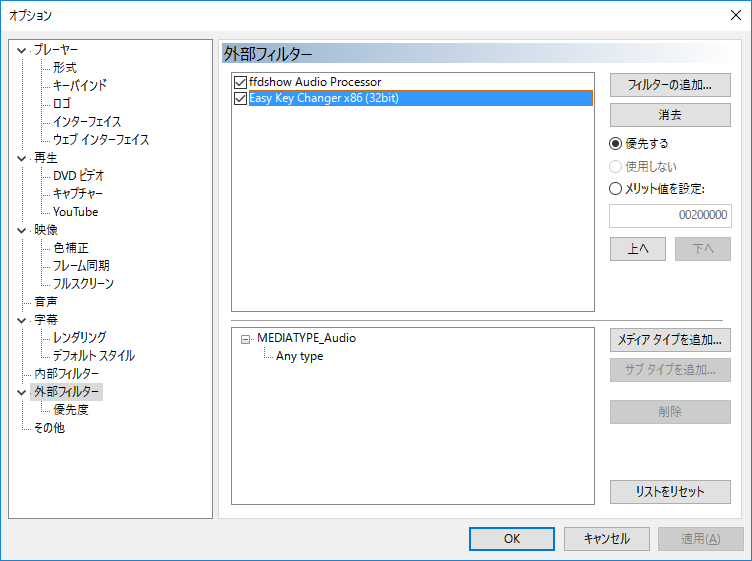
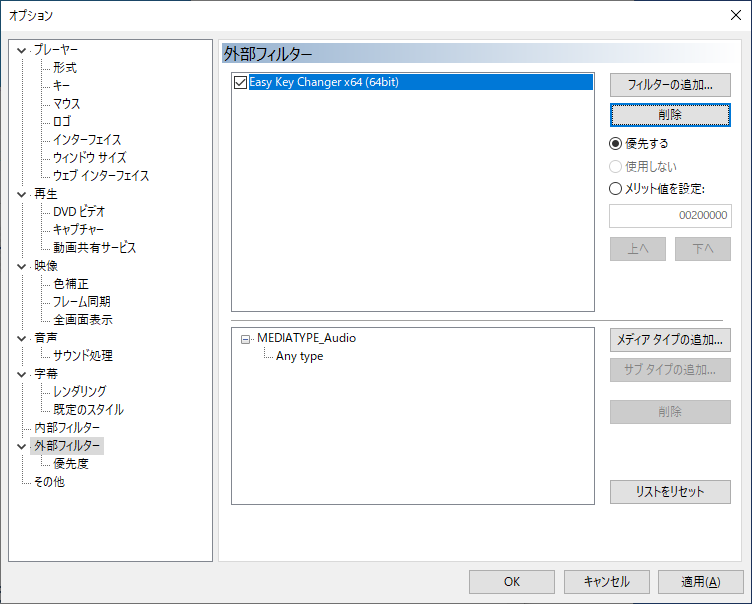
Ver 1.14B ヘルプを更新。

diff --git a/Documents/EasyKeyChanger_JPN.html b/Documents/EasyKeyChanger_JPN.html
@@ -55,24 +55,33 @@
   MPC-BE サイトの説明に従って、MPC-BE をインストールします。デフォルトの設定で問題ないと思います。<br>
 </p>
 
-<h2 id="FfdshowInstall">ffdshow のインストール</h2>
+<h2 id="AppInstall">簡易キーチェンジャーのインストール</h2>
+
+<p>
+  簡易キーチェンジャーは、ダウンロードした zip ファイルを好きな場所に解凍するだけで大丈夫です。<br>
+</p>
+
+<h2 id="LavfilternoInstall">LAV フィルターのインストール</h2>
 
 <p>
   簡易キーチェンジャーは、AAC などのエンコードされた音声を直接扱うことができません。予め、別の DirectShow フィルターで音声処理する必要があります。<br>
   <br>
-  音声処理として、本ヘルプでは ffdshow を利用します。<br>
+  音声処理として、本ヘルプでは LAV フィルターと ffdshow を利用します。<br>
   <br>
+  <a href="https://github.com/Nevcairiel/LAVFilters/releases" target="_blank">LAV フィルターのサイト</a>から LAV フィルターをダウンロードします。使用している MPC-BE が 32 ビット版の場合は「x86」の zip ファイル、MPC-BE が 64 ビット版の場合は「x64」の zip ファイルをダウンロードします。Windows のビット数ではなく、MPC-BE のビット数に合わせて下さい。<br>
+  <br>
+  <a href="HelpParts/EasyKeyChanger_LavFilterInstall.png" target="_blank"><img src="HelpParts/EasyKeyChanger_LavFilterInstall.png" alt="" width="256" align="right" border="0" hspace="10" vspace="10"></a>
+  ダウンロードした zip ファイルを任意のフォルダーに解凍し、中にある「install_audio.bat」を右クリックして管理者として実行します。「LAVAudio.ax の DllRegisterServer は成功しました。」と表示されればインストール成功です。<br clear="right">
+</p>
+
+<h2 id="FfdshowInstall">ffdshow のインストール</h2>
+
+<p>
   ffdshow は <a href="http://ffdshow-tryout.sourceforge.net/" target="_blank">ffdshow tryouts</a> に含まれています。<br>
   <br>
   ffdshow tryouts の<a href="http://ffdshow-tryout.sourceforge.net/download.php" target="_blank">ダウンロードページ</a>から、ffdshow をダウンロードします。MPC-BE が 64 ビット版なら ffdshow も 64 ビット版、MPC-BE が 32 ビット版なら ffdshow も 32 ビット版をダウンロードして下さい。Windows のビット数ではなく、MPC-BE のビット数に合わせて下さい。<br>
   <br>
   ffdshow tryouts サイトの説明に従って、ffdshow をインストールします。デフォルトの設定で問題ないと思います。<br>
-</p>
-
-<h2 id="AppInstall">簡易キーチェンジャーのインストール</h2>
-
-<p>
-  簡易キーチェンジャーは、ダウンロードした zip ファイルを好きな場所に解凍するだけで大丈夫です。<br>
 </p>
 
 <h2 id="MpcBeSettings">MPC-BE の設定</h2>
@@ -87,32 +96,79 @@
   <br>
   <a href="HelpParts/EasyKeyChanger_MpcBeGaibuFilter.png" target="_blank"><img src="HelpParts/EasyKeyChanger_MpcBeGaibuFilter.png" alt="" width="256" align="right" border="0" hspace="10" vspace="10"></a>
   オプションウィンドウ左側の「外部フィルター」をクリックすると、右の画面になります。<br clear="right">
-  <br>
+</p>
+
+<h3 id="AppTsuika">簡易キーチェンジャーの追加</h3>
+
+<p>
   <a href="HelpParts/EasyKeyChanger_MpcBeFilterSentaku.png" target="_blank"><img src="HelpParts/EasyKeyChanger_MpcBeFilterSentaku.png" alt="" width="256" align="right" border="0" hspace="10" vspace="10"></a>
-  「フィルターの追加」ボタンをクリックすると、右の画面のように、利用可能なフィルターの一覧が出てきますので、「ffdshow Audio Processor」を選択して OK します（名前が似ている ffdshow Audio Decoder ではありませんので注意して下さい）。<br clear="right">
-  <br>
-  <a href="HelpParts/EasyKeyChanger_MpcBeFfdshowYusen.png" target="_blank"><img src="HelpParts/EasyKeyChanger_MpcBeFfdshowYusen.png" alt="" width="256" align="right" border="0" hspace="10" vspace="10"></a>
-  すると、外部フィルターに「ffdshow Audio Processor」が表示されるので、それを選択した状態で右の「優先する」のチェックを入れておきます。<br clear="right">
-  <br>
-  <a href="HelpParts/EasyKeyChanger_MpcBeFfdshowSettings.png" target="_blank"><img src="HelpParts/EasyKeyChanger_MpcBeFfdshowSettings.png" alt="" width="256" align="right" border="0" hspace="10" vspace="10"></a>
-  また、「ffdshow Audio Processor」をダブルクリックすると、ffdshow Audio Processor の設定画面が開きますので、左側のリストから「Output」を選択します。<br>
-  <br>
-  「Output format for uncompressed or decoded streams」の欄が、「16-bit integer」のみチェックされている状態になっているか確認してください（恐らくデフォルトではそうなっているはずです）。もし、「16-bit integer」以外にチェックが入っていたら外して下さい。<br>
-  <br>
-  確認したら、OK ボタンをクリックして ffdshow Audio Processor の設定画面を閉じます。<br clear="right">
+  「フィルターの追加」ボタンをクリックすると、右の画面のように、利用可能なフィルターの一覧が出てきます。<br clear="right">
   <br>
   <a href="HelpParts/EasyKeyChanger_MpcBeFilterHiraku.png" target="_blank"><img src="HelpParts/EasyKeyChanger_MpcBeFilterHiraku.png" alt="" width="256" align="right" border="0" hspace="10" vspace="10"></a>
-  次に、MPC-BE オプションウィンドウの「外部フィルター」で、もう 1 度「フィルターの追加」ボタンをクリックします。利用可能なフィルターの一覧が出てきますが、今度は「参照」ボタンをクリックします。<br>
+  「参照」ボタンをクリックします。<br>
   <br>
   開くウィンドウで、簡易キーチェンジャーを解凍したフォルダのサブフォルダにある EasyKeyChanger.dll を選択します。使用している MPC-BE が 32 ビット版の場合は「32bit」サブフォルダにある EasyKeyChanger.dll、MPC-BE が 64 ビット版の場合は「64bit」サブフォルダにある EasyKeyChanger.dll を選択します。Windows のビット数ではなく、MPC-BE のビット数に合わせて下さい。<br>
   <br>
   EasyKeyChanger.dll を選択後、開くボタンをクリックします。<br clear="right">
   <br>
   <a href="HelpParts/EasyKeyChanger_MpcBeEasyKeyChangerYusen.png" target="_blank"><img src="HelpParts/EasyKeyChanger_MpcBeEasyKeyChangerYusen.png" alt="" width="256" align="right" border="0" hspace="10" vspace="10"></a>
-  すると、外部フィルターに「Easy Key Changer x86 (32bit)」（または「Easy Key Changer x64 (64bit)」）が表示されるので、それを選択した状態で右の「優先する」のチェックを入れておきます。<br>
+  すると、外部フィルターに「Easy Key Changer x86 (32bit)」（または「Easy Key Changer x64 (64bit)」）が表示されるので、それを選択した状態で右の「優先する」のチェックを入れておきます。<br clear="right">
+</p>
+
+<h3 id="MpcBeniLavfilterwoTsuika">LAV フィルターの追加</h3>
+
+<p>
+  <a href="HelpParts/EasyKeyChanger_MpcBeLav.png" target="_blank"><img src="HelpParts/EasyKeyChanger_MpcBeLav.png" alt="" width="256" align="right" border="0" hspace="10" vspace="10"></a>
+  再度「フィルターの追加」ボタンをクリックし、一覧の中から「LAV Audio Decoder」を選択して追加します。<br clear="right">
   <br>
-  必ず、ffdshow Audio Processor の下に 簡易キーチェンジャー が来るようにします。<br clear="right">
+  <a href="HelpParts/EasyKeyChanger_MpcBeLavYusen.png" target="_blank"><img src="HelpParts/EasyKeyChanger_MpcBeLavYusen.png" alt="" width="256" align="right" border="0" hspace="10" vspace="10"></a>
+  「LAV Audio Decoder」が選択された状態で右の「優先する」のチェックを入れておきます。<br clear="right">
+</p>
+
+<blockquote>
+  （補足）<br>
+  環境によっては、LAV フィルターを追加しなくても簡易キーチェンジャーが動作する場合があります。<br>
+</blockquote>
+
+<h3 id="FfdshowTsuika">ffdshow Audio Processor の追加</h3>
+
+<p>
+  <a href="HelpParts/EasyKeyChanger_MpcBeFfdshowAudioProcessor.png" target="_blank"><img src="HelpParts/EasyKeyChanger_MpcBeFfdshowAudioProcessor.png" alt="" width="256" align="right" border="0" hspace="10" vspace="10"></a>
+  再度「フィルターの追加」ボタンをクリックし、一覧の中から「ffdshow Audio Processor」を選択して追加します。名前が似ている ffdshow Audio Decoder ではありませんので注意して下さい。<br clear="right">
   <br>
+  <a href="HelpParts/EasyKeyChanger_MpcBeFfdshowYusen.png" target="_blank"><img src="HelpParts/EasyKeyChanger_MpcBeFfdshowYusen.png" alt="" width="256" align="right" border="0" hspace="10" vspace="10"></a>
+  「ffdshow Audio Processor」が選択された状態で右の「優先する」のチェックを入れておきます。<br>
+  <br>
+  必ず、<br>
+</p>
+
+<ul>
+  <li>簡易キーチェンジャー</li>
+  <li>LAV フィルター</li>
+  <li>ffdshow Audio Processor</li>
+</ul>
+
+<p>
+  の順番になるようにします。<br clear="right">
+</p>
+
+<blockquote>
+  （補足）<br>
+  使用している MPC-BE のバージョンが古く、Ver 1.6 未満の場合は、順番を逆にします。<br>
+</blockquote>
+
+<p>
+  <a href="HelpParts/EasyKeyChanger_MpcBeFfdshowSettings.png" target="_blank"><img src="HelpParts/EasyKeyChanger_MpcBeFfdshowSettings.png" alt="" width="256" align="right" border="0" hspace="10" vspace="10"></a>
+  また、「ffdshow Audio Processor」をダブルクリックすると、ffdshow Audio Processor の設定画面が開きますので、左側のリストから「Output」を選択します。<br>
+  <br>
+  「Output format for uncompressed or decoded streams」の欄が、「16-bit integer」のみチェックされている状態になっているか確認してください（恐らくデフォルトではそうなっているはずです）。もし、「16-bit integer」以外にチェックが入っていたら外して下さい。<br>
+  <br>
+  確認したら、OK ボタンをクリックして ffdshow Audio Processor の設定画面を閉じます。<br clear="right">
+</p>
+
+<h3 id="NaibufilternoSettei">内部フィルターの設定</h3>
+
+<p>
   <a href="HelpParts/EasyKeyChanger_MpcBeDecoderMukou.png" target="_blank"><img src="HelpParts/EasyKeyChanger_MpcBeDecoderMukou.png" alt="" width="256" align="right" border="0" hspace="10" vspace="10"></a>
   次に、オプションウィンドウ左側の「内部フィルター」をクリックし、「音声デコーダー」タブを開きます。<br>
   <br>
@@ -127,41 +183,6 @@
   音声レンダラーを「システムデフォルト」にします。<br>
   <br>
   オプションウィンドウの OK ボタンをクリックすれば、設定完了です。<br clear="right">
-</p>
-
-<h2 id="AdditionalAppInstall">追加の MPC-BE の設定（一部環境のみ）</h2>
-
-<p>
-  さきほどまでの設定で、通常は 簡易キーチェンジャー が使えるようになります。しかし、一部の環境では、さらに追加で設定が必要となる場合があるようです。例えば、CPU が Atom 系列のパソコンをお使いの場合、追加設定が必要となる場合が多いようです。<br>
-  <br>
-  次章「<a href="#Tsukaikata">使い方</a>」の通りにしてもうまく動かない場合（音声がプチプチする場合等）は、本節の追加設定を試してみてください。<br>
-  <br>
-  <a href="HelpParts/EasyKeyChanger_MpcBeFfdshowAudioDecoder.png" target="_blank"><img src="HelpParts/EasyKeyChanger_MpcBeFfdshowAudioDecoder.png" alt="" width="256" align="right" border="0" hspace="10" vspace="10"></a>
-  さきほどまでの設定でうまく動かない場合は、MPC-BE で動画や音声を再生中に、メニューの［再生→フィルター］で表示されるフィルターの一覧に「ffdshow Audio Decoder」が表示されているようです。<br>
-  <br>
-  そのような場合は、LAV フィルターをインストールし、追加で MPC-BE の設定を行います。<br clear="right">
-</p>
-
-<h3 id="LavfilternoInstall">LAV フィルターのインストール</h3>
-
-<p>
-  <a href="https://github.com/Nevcairiel/LAVFilters/releases" target="_blank">LAV フィルターのサイト</a>から LAV フィルターをダウンロードします。使用している MPC-BE が 32 ビット版の場合は「x86」の zip ファイル、MPC-BE が 64 ビット版の場合は「x64」の zip ファイルをダウンロードします。Windows のビット数ではなく、MPC-BE のビット数に合わせて下さい。<br>
-  <br>
-  <a href="HelpParts/EasyKeyChanger_LavFilterInstall.png" target="_blank"><img src="HelpParts/EasyKeyChanger_LavFilterInstall.png" alt="" width="256" align="right" border="0" hspace="10" vspace="10"></a>
-  ダウンロードした zip ファイルを任意のフォルダーに解凍し、中にある「install_audio.bat」を右クリックして管理者として実行します。「LAVAudio.ax の DllRegisterServer は成功しました。」と表示されればインストール成功です。<br clear="right">
-</p>
-
-<h3 id="MpcBeniLavfilterwoTsuika">MPC-BE に LAV フィルターを追加</h3>
-
-<p>
-  <a href="HelpParts/EasyKeyChanger_MpcBeLavYusen.png" target="_blank"><img src="HelpParts/EasyKeyChanger_MpcBeLavYusen.png" alt="" width="256" align="right" border="0" hspace="10" vspace="10"></a>
-  MPC-BE を起動し、メニューの［表示→オプション］でオプションウィンドウを開きます。<br>
-  <br>
-  オプションウィンドウ左側の「外部フィルター」をクリックし、「フィルターの追加」ボタンをクリックして、「LAV Audio Decoder」を追加します。<br>
-  <br>
-  「LAV Audio Decoder」が選択された状態で右の「優先する」のチェックを入れておきます。また、「上へ」ボタンをクリックし、「ffdshow Audio Processor」と「Easy Key Changer」の間に「LAV Audio Decoder」が入る順番にします。<br>
-  <br>
-  オプションウィンドウの OK ボタンをクリックすれば、追加設定完了です。<br clear="right">
 </p>
 
 <h1 id="Tsukaikata">使い方</h1>
@@ -276,7 +297,7 @@
 <h2 id="Dousakankyo2">動作環境</h2>
 
 <p>
-  簡易キーチェンジャー公式ページの<a href="http://shinta.coresv.com/soft/EasyKeyChanger_JPN.html#Support" target="_blank">サポート情報</a>をご覧ください。<br>
+  簡易キーチェンジャー公式ページの<a href="https://shinta.coresv.com/software/easykeychanger_jpn/#Support" target="_blank">サポート情報</a>をご覧ください。<br>
 </p>
 
 <h2 id="Nyuryokuonseikeishiki">入力音声形式</h2>
@@ -307,8 +328,30 @@
 </p>
 
 <ul>
-  <li><a href="http://shinta.coresv.com/soft/EasyKeyChanger_JPN.html#Support" target="_blank">簡易キーチェンジャー　サポートページ</a></li>
+  <li><a href="https://shinta.coresv.com/software/easykeychanger_jpn/#Support" target="_blank">簡易キーチェンジャー　サポートページ</a></li>
 </ul>
+
+
+<h1 id="Onegai">お願い</h1>
+
+<h2 id="NiconicoUser">ニコニコユーザー</h2>
+
+<p>
+  ニコニコ動画のアカウントを持っている方は、<a href="https://www.nicovideo.jp/user/9520206" target="_blank">SHINTA のアカウント</a>をフォローして頂けると嬉しいです。<br>
+</p>
+
+<h2 id="Fantia">クリエイター支援サイト</h2>
+
+<p>
+  <a href="https://fantia.jp/fanclubs/65509" target="_blank"><img src="HelpParts/CFileMerge2_Fantia.png" alt=""
+      width="256" align="right" border="0" hspace="10" vspace="10"></a>
+  クリエイター支援サイト「Fantia」内に、簡易キーチェンジャーを含む <a href="https://fantia.jp/fanclubs/65509" target="_blank">SHINTA のファンサイトを開設しました</a>。<br>
+  <br>
+  無料プランもありますので、是非ご入会いただけると励みになります。<br>
+  <br>
+  懐に余裕がある方は、有料プランにご入会頂けると、開発費等が助かりますので、よろしくお願いします。<br clear="right">
+</p>
+
 
 <h1 id="Sonota">その他</h1>
 
@@ -318,7 +361,7 @@
   <tr><th>種類別</th><td>フリーソフトウェア</td></tr>
   <tr><th>名称</th><td>DirectShow フィルター</td></tr>
   <tr><th>ソフトウェア名</th><td>簡易キーチェンジャー</td></tr>
-  <tr><th>ダウンロード</th><td><a href="http://shinta.coresv.com/soft/EasyKeyChanger_JPN.html#Download" target="_blank">http://shinta.coresv.com/soft/EasyKeyChanger_JPN.html#Download</a>（メイン）<br><a href="http://shinta0806be.ldblog.jp/archives/9212448.html" target="_blank">http://shinta0806be.ldblog.jp/archives/9212448.html</a>（バックアップ）</td></tr>
+  <tr><th>ダウンロード</th><td><a href="https://shinta.coresv.com/software/easykeychanger_jpn/#Download" target="_blank">https://shinta.coresv.com/software/easykeychanger_jpn/#Download</a>（メイン）<br><a href="http://shinta0806be.ldblog.jp/archives/9212448.html" target="_blank">http://shinta0806be.ldblog.jp/archives/9212448.html</a>（バックアップ）</td></tr>
   <tr><th>作者</th><td>SHINTA</td></tr>
   <tr><th>作者 E メール</th><td><img src="HelpParts/MailAddrG2.png" border="0"></td></tr>
   <tr><th>製品番号</th><td>SHWI-040-A</td></tr>
@@ -360,10 +403,10 @@
   <div class="TocItemH1"><a href="#Hajimeni">はじめに</a></div>
   <div class="TocItemH1"><a href="#Install">インストール</a></div>
   <div class="TocItemH2"><a href="#MpcBeInstall">MPC-BE のインストール</a></div>
-  <div class="TocItemH2"><a href="#FfdshowInstall">ffdshow のインストール</a></div>
   <div class="TocItemH2"><a href="#AppInstall">簡易キーチェンジャーのインストール</a></div>
+  <div class="TocItemH2"><a href="#LavfilternoInstall">LAV フィルターのインストール</a></div>
+  <div class="TocItemH2"><a href="#FfdshowInstall">ffdshow のインストール</a></div>
   <div class="TocItemH2"><a href="#MpcBeSettings">MPC-BE の設定</a></div>
-  <div class="TocItemH2"><a href="#AdditionalAppInstall">追加の MPC-BE の設定（一部環境のみ）</a></div>
   <div class="TocItemH1"><a href="#Tsukaikata">使い方</a></div>
   <div class="TocItemH2"><a href="#Controller">コントローラー</a></div>
   <div class="TocItemH2"><a href="#KeyHenkou">キー変更</a></div>
@@ -374,6 +417,9 @@
   <div class="TocItemH2"><a href="#Dousakankyo2">動作環境</a></div>
   <div class="TocItemH2"><a href="#Nyuryokuonseikeishiki">入力音声形式</a></div>
   <div class="TocItemH1"><a href="#Komattatokiwa">困ったときは</a></div>
+  <div class="TocItemH1"><a href="#Onegai">お願い</a></div>
+  <div class="TocItemH2"><a href="#NiconicoUser">ニコニコユーザー</a></div>
+  <div class="TocItemH2"><a href="#Fantia">クリエイター支援サイト</a></div>
   <div class="TocItemH1"><a href="#Sonota">その他</a></div>
   <div class="TocItemH2"><a href="#Database">データベース</a></div>
   <div class="TocItemH2"><a href="#License">ライセンス</a></div>

diff --git a/Documents/EasyKeyChanger_Controller_JPN.html b/Documents/EasyKeyChanger_Controller_JPN.html
@@ -3,7 +3,7 @@
 <head>
 <meta http-equiv="Content-Type" content="text/html; charset=utf-8">
 <title>簡易キーチェンジャー　コントローラー</title>
-<link rel="stylesheet" href="HelpParts/SHIHelpG2.css" type="text/css">
+<link rel="stylesheet" href="HelpParts/SHIHelpG3.css" type="text/css">
 </head>
 
 <body>
